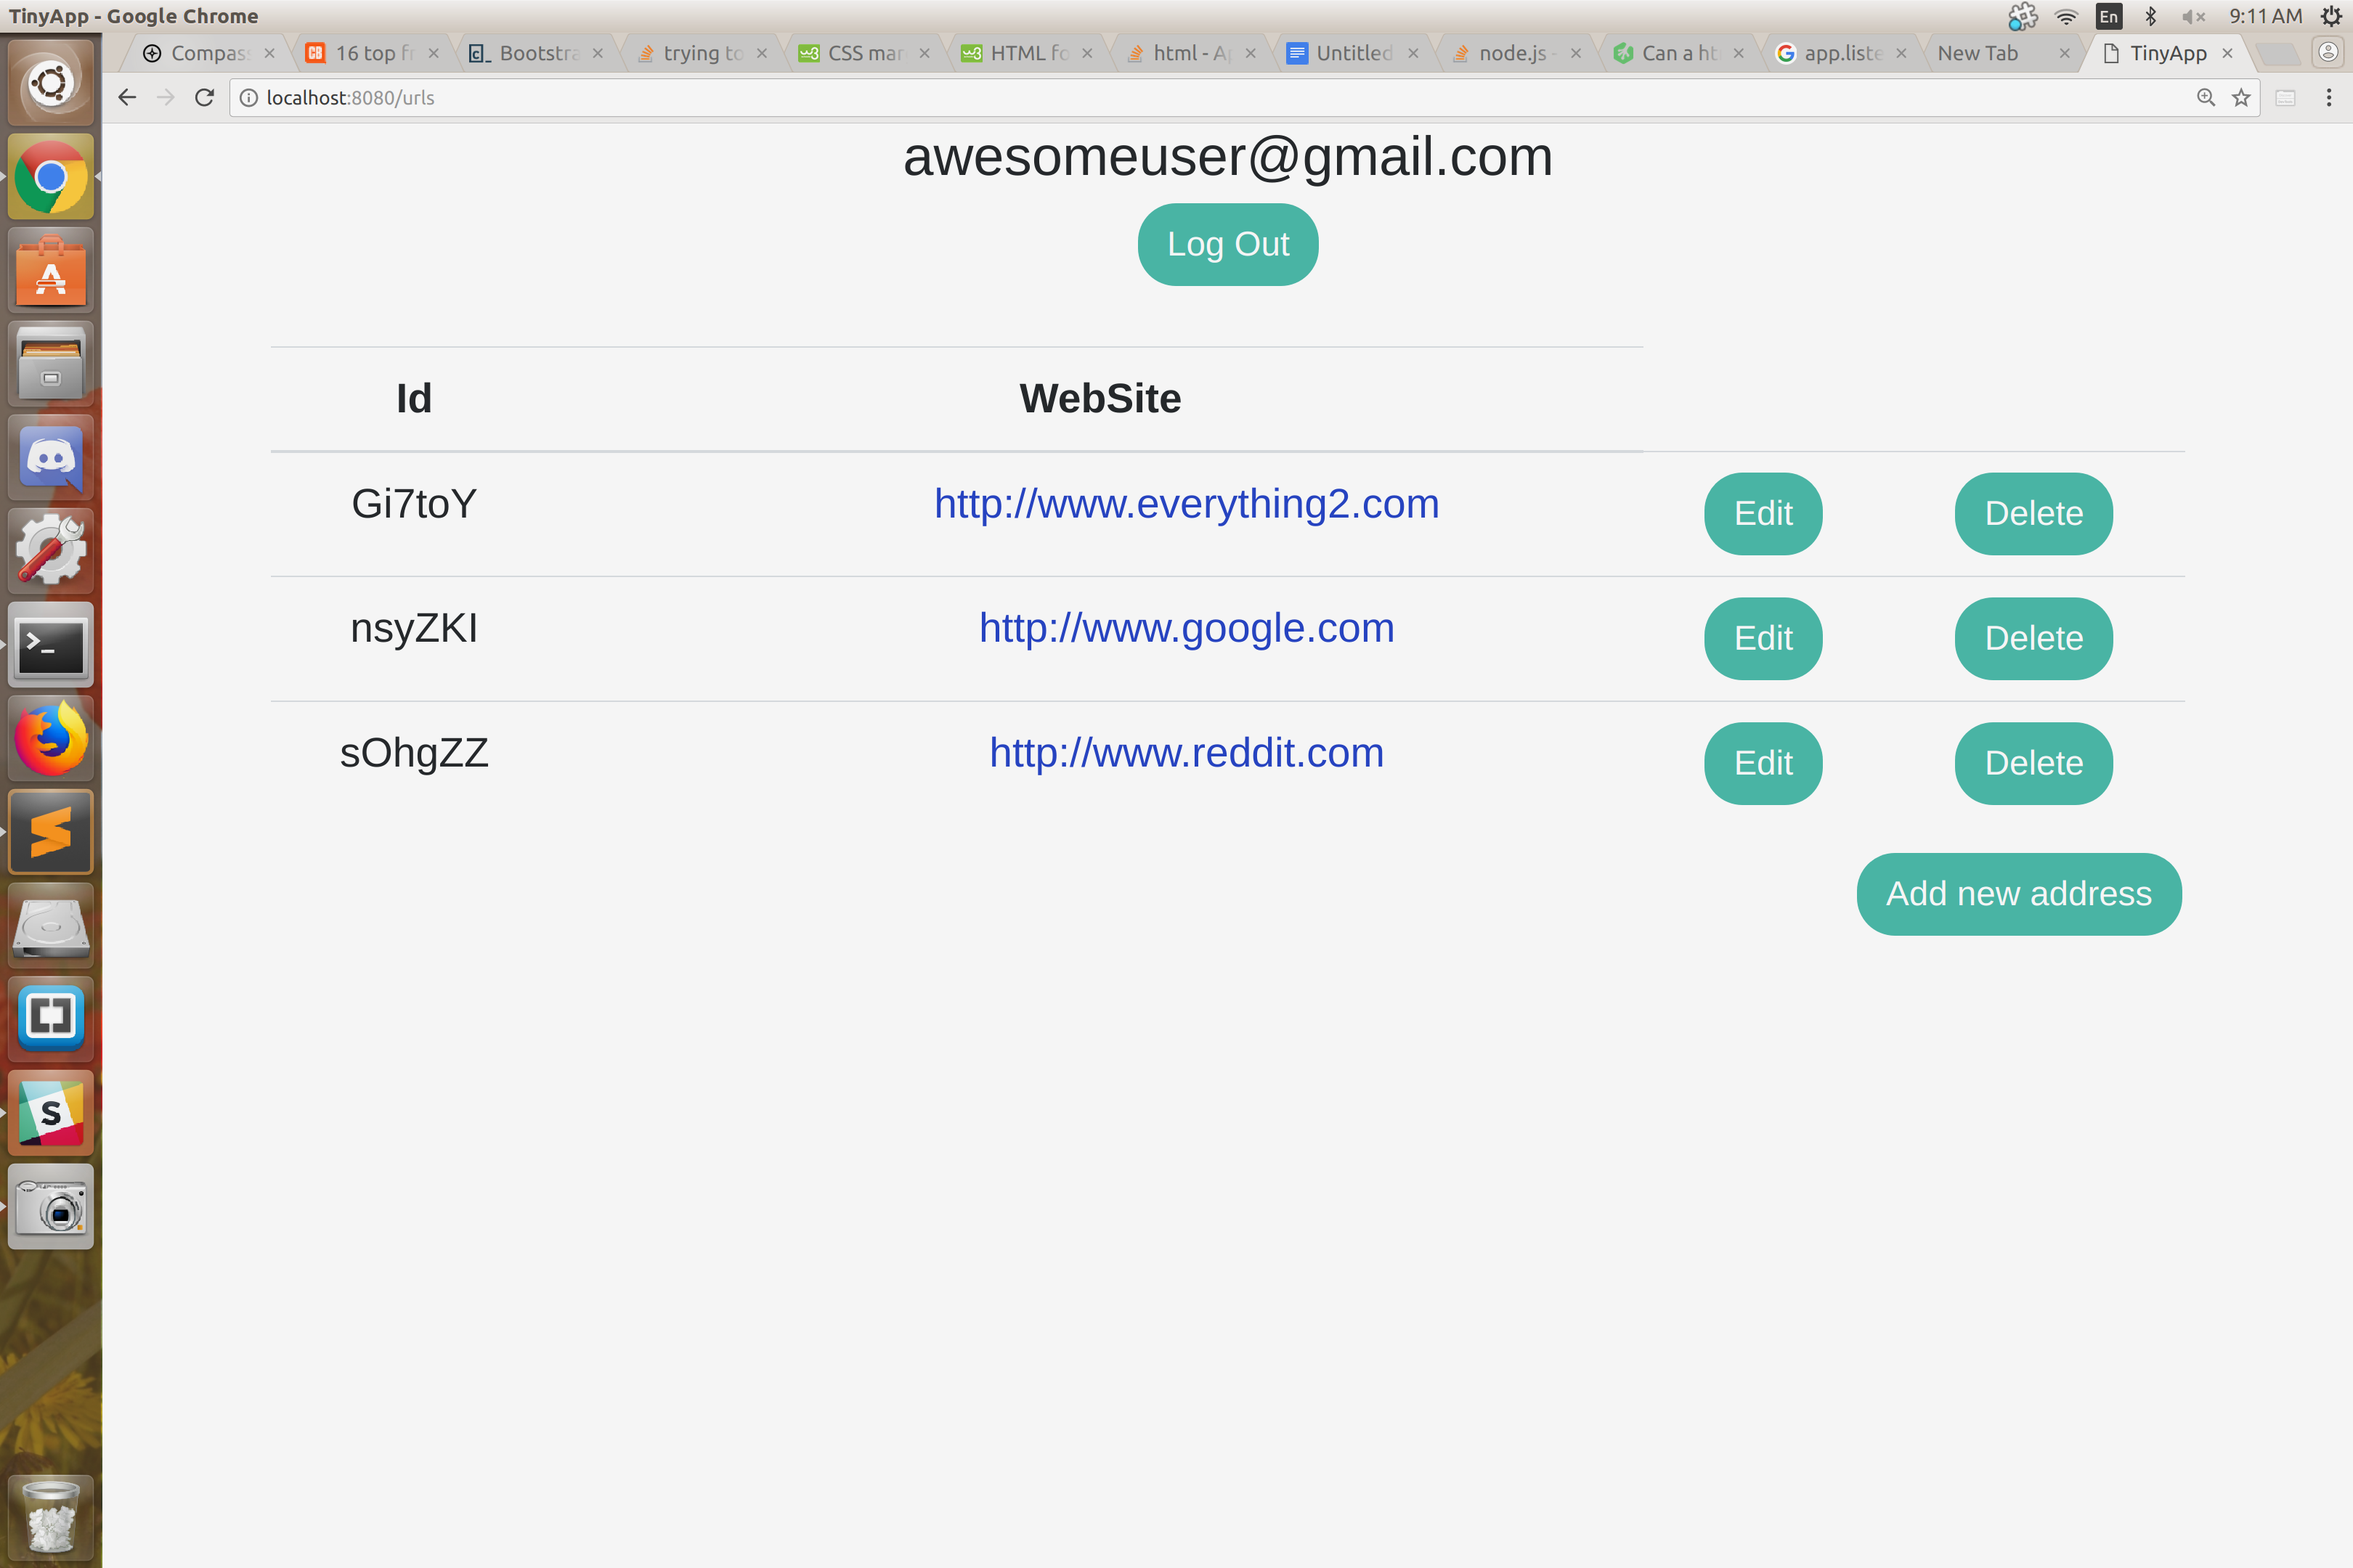
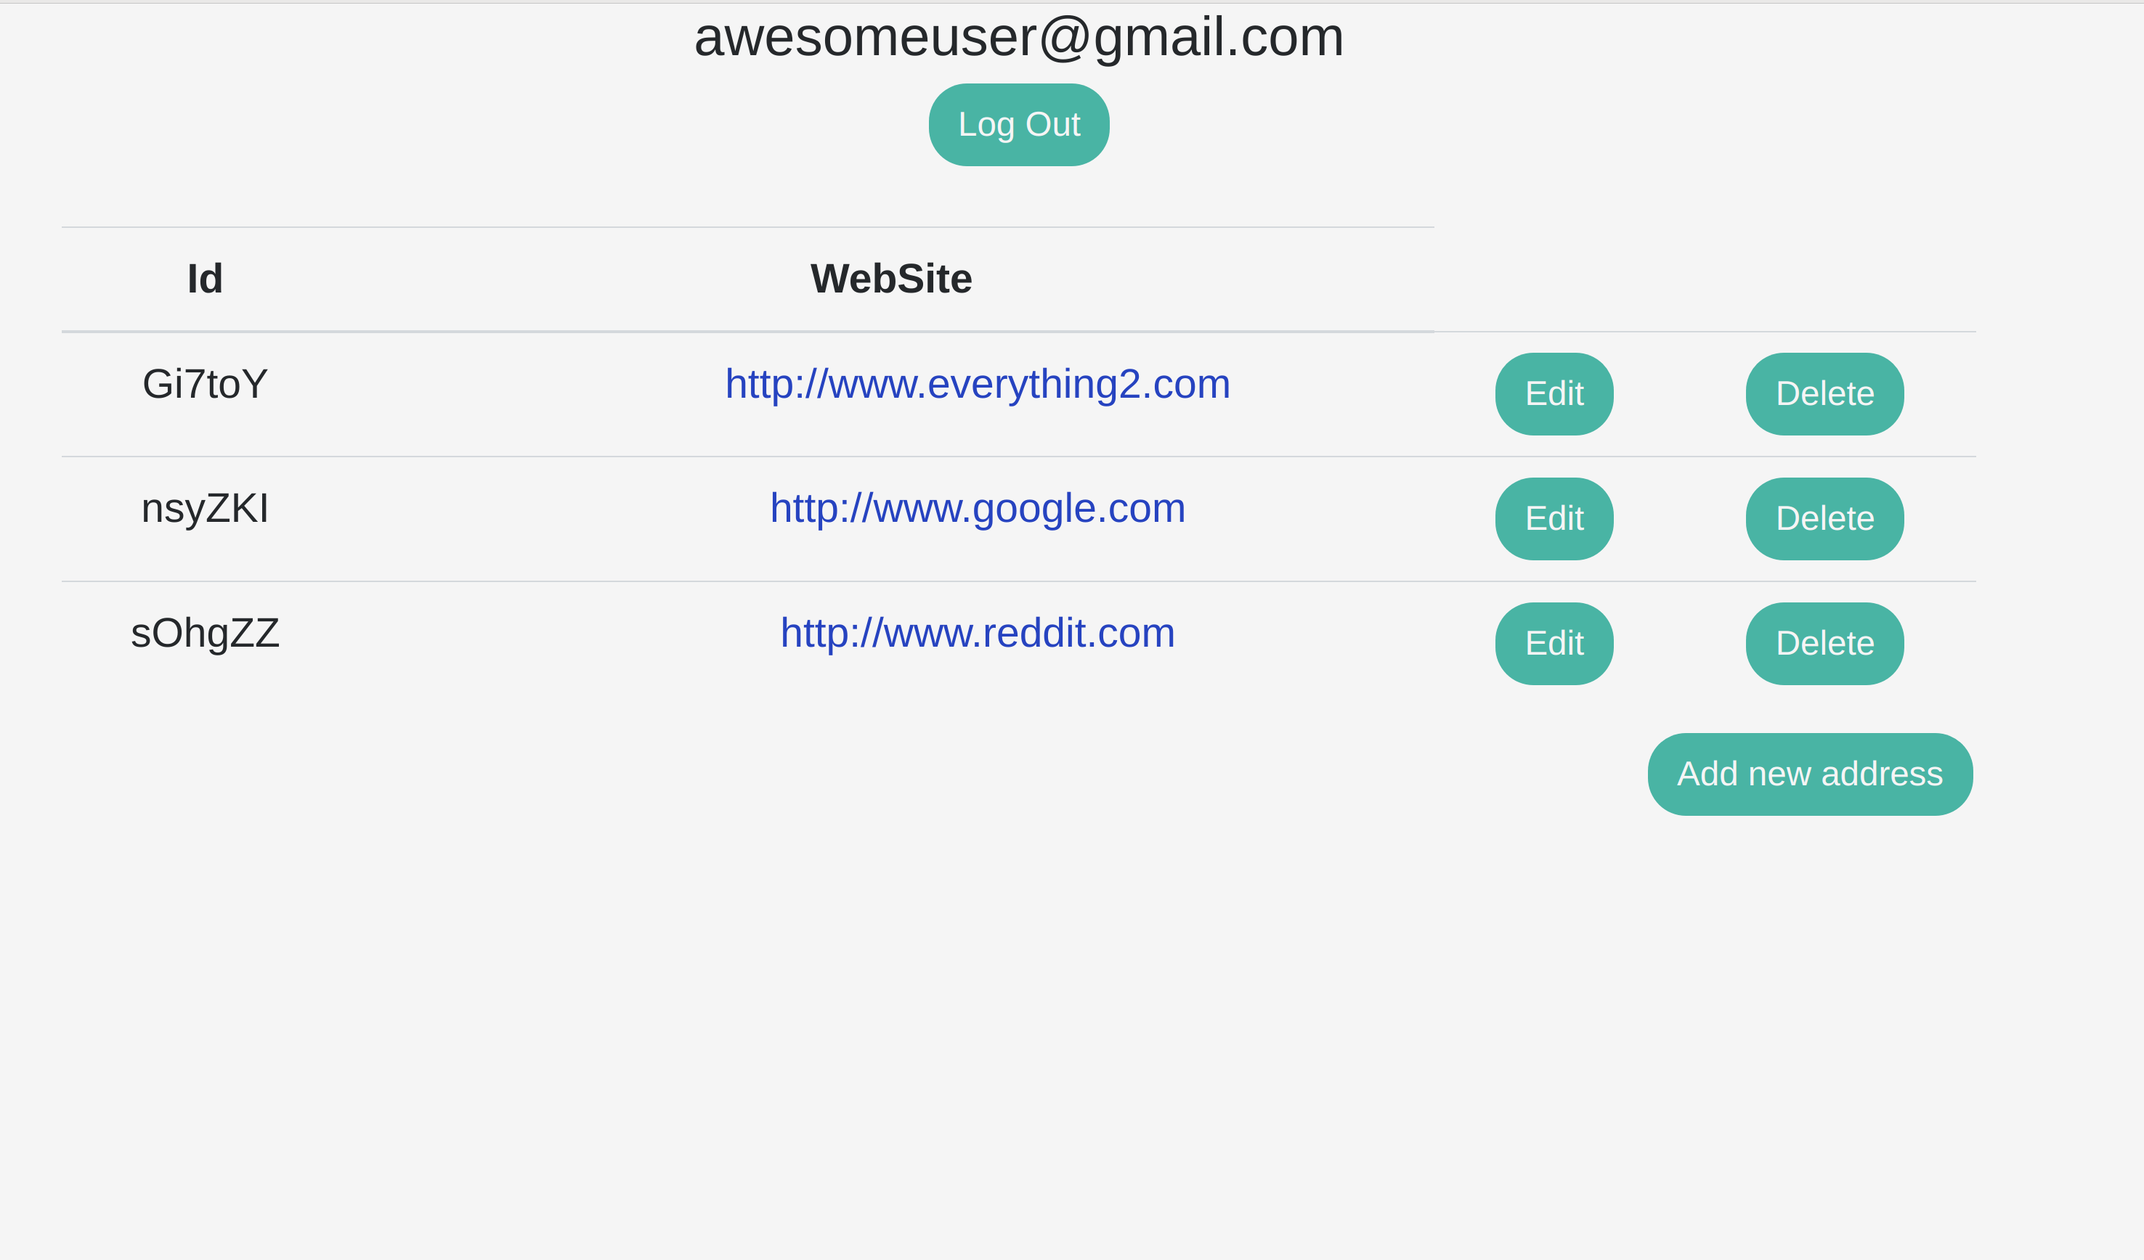
updated readme for screen shots

diff --git a/README.md b/README.md
@@ -3,6 +3,8 @@
 This is a skeleton for a url shortening website. It implements a user system and allows non users to use the shortened urls 
 within the site's database. 
 
+!["Screenshot of home page"(https://github.com/JacobMJones/url/blob/master/docs/welcomescreen.png)]
+!["Screenshot of home page"(https://github.com/JacobMJones/url/blob/master/docs/listings.png)]
 ## Bugs/Issues
 
 If a user has many websites listed, the page does not scale down to fit the listings or add a next page feature.
